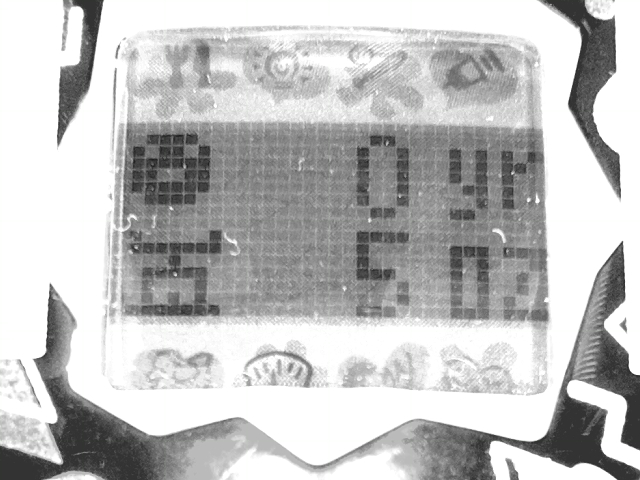
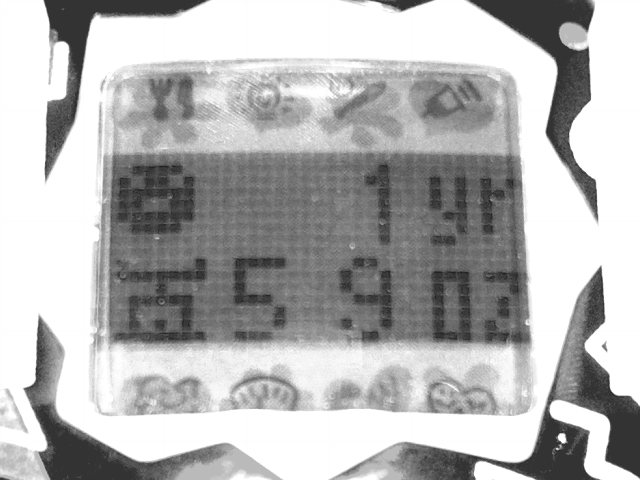
fixed threshold for discipline, new cropping since camera moved, some stuff to make the program auto run on startup

diff --git a/controller.py b/controller.py
@@ -26,7 +26,7 @@ class TamaCareState(object):
     self.machine.add_transition('discipline', 'undisciplined', 'idle')
 
 class TamaPhysState(object):
-  physStates = ['unknown', 'egg', 'baby', 'child', 'teen', 'adult', 
+  physStates = ['unknown', 'egg', 'asleep', 'baby', 'child', 'teen', 'adult', 
                       'adult_secret', 'dead']
   teenType = 'none'
   adultType = 'none'
@@ -42,7 +42,7 @@ class TamaPhysState(object):
       self.machine.add_transition('die', '*', 'dead')
 
 class TamaController(object):
-  def __init__(self, tamaCam, tamaVision, tamaButtons, tamaLight, careInterval, lock):
+  def __init__(self, tamaCam, tamaVision, tamaButtons, tamaLight, careInterval, lock, saveLight):
     self.tamaCam = tamaCam
     self.tamaVision = tamaVision
     self.tamaButtons = tamaButtons
@@ -57,13 +57,16 @@ class TamaController(object):
     self.prevAutoMode = False
     self.SnackKillCounter = 0
     self.lock = lock
+    self.turnOffLightWhenNotNeeded = saveLight
+    self.lightsTurnedOff = False
 
   def getFrame(self, fn):
     self.tamaLight.turnOn()
     sleep(0.5)
     with self.lock:
       self.tamaCam.getFrameToFile(fn)
-    self.tamaLight.turnOff()
+    if self.turnOffLightWhenNotNeeded:
+      self.tamaLight.turnOff()
     sleep(0.3)
   
   def updateTamaStatFrames(self):
@@ -108,13 +111,14 @@ class TamaController(object):
       self.careState.to_unhappy()
       return
 
-    logger.log(logging.WARNING,('Tamagotchi is OK, does it call for discipline?.'))
     # only check discipline after all other care request have been handled
-    if self.tamaVision.findPattern(frameFileName, 'needs_discipline.png', positiveThresholds = 0.85):
+    if self.tamaVision.findPattern(frameFileName, 'needs_discipline.png', positiveThresholds = 0.7): # normal is 0.65, when detected is 0.75 (@0.02 thres offset)
       logger.log(logging.WARNING,('Yes!'))
       self.careState.to_undisciplined()
+      logger.log(logging.WARNING,('Tamagotchi needs discipline!'))
       return
-    logger.log(logging.WARNING,('No.'))
+    logger.log(logging.WARNING,('Tamagotchi does not need discipline.'))
+    
     logger.log(logging.WARNING,'Tamagotchi seems to not need care right now.')
     self.careState.to_idle()
     return
@@ -124,8 +128,14 @@ class TamaController(object):
     if self.tamaVision.findPattern(frameFileName, 'angel.png'):
         self.physState.to_dead()  
         return    
-    #self.physState.to_child()
-    #return
+    
+    if self.lightsTurnedOff:
+      if self.tamaVision.findPattern(frameFileName, ['sleep_screen1.png', 'sleep_screen2.png']):
+        self.physState.to_asleep()  
+        return
+      else:
+        self.lightsTurnedOff = False
+
     if self.physState.state in ['unknown', 'dead']:
       if self.tamaVision.findPattern(frameFileName, 'egg_1.png'):
         self.physState.to_egg()
@@ -159,7 +169,7 @@ class TamaController(object):
         self.physState.to_teen()
         self.physState.teenType = 'teen1'
         return
-      if self.tamaVision.findPattern(frameFileName, 'teen2_1.png'):
+      if self.tamaVision.findPattern(frameFileName, 'teen2_1.png', positiveThresholds = 0.50):
         self.physState.to_teen()
         self.physState.teenType = 'teen2'
         return
@@ -318,6 +328,7 @@ class TamaController(object):
       self.tamaButtons.pressM()
       sleep(4)
       self.tamaButtons.pressR()
+      self.lightsTurnedOff = True
 
     if self.careState.state == 'undisciplined':
       logger.log(logging.WARNING,'Disciplining the Tamagotchi.')
@@ -368,15 +379,20 @@ class TamaController(object):
           if self.physState.state == 'dead':
             logger.log(logging.WARNING,'Not checking care needs, because tama is dead')
             return
+              
+          if self.lightsTurnedOff:
+            logger.log(logging.WARNING,'Not checking care needs, tama is asleep...')
+            return
 
           self.detectCareState(fn)
           logger.log(logging.WARNING,'Care state: ' + self.careState.state)
 
           self.tamaLight.turnOn()
           self.handleState()
-          self.tamaLight.turnOff()
+          if self.turnOffLightWhenNotNeeded:
+            self.tamaLight.turnOff()
         else:
-          sleep(30)
+          sleep(1)
       else: #kill the tamagotchi by feeding it snacks over and over
         if self.prevLoveMode == True or self.prevAutoMode == False:
           logger.log(logging.WARNING,'Tamagotchi murder mode activated. You monster.')

diff --git a/gui.py b/gui.py
@@ -3,11 +3,10 @@ from tkinter import *
 from tkinter.scrolledtext import ScrolledText
 from PIL import ImageTk,Image
 from time import sleep
-import fasteners
 import QueueHandler
 import logging
 import queue
-
+import os
 
 
 logger = logging.getLogger('Tamagotchi')
@@ -19,19 +18,19 @@ def checkSetDisplay():
         os.environ.__setitem__('DISPLAY', ':0.0')
 
 class TamaGui():
-    def __init__(self, buttonControllerInput, lock):
+    def __init__(self, buttonControllerInput, lightController, lock):
         checkSetDisplay()
         self.buttonController = buttonControllerInput
         self.gui = Tk()
         self.gui.attributes('-fullscreen',True)
         self.gui.title("Tamagotchi-Incubator")
-        self.buildGUI()
         self.lock = lock
-
+        self.lightController = lightController
         self.DefClr = self.gui.cget("bg")
-
         self.autoMode = False
         self.loveMode = True
+
+        self.buildGUI()
 
     def setAutoMode(self):
         self.autoMode = True
@@ -44,7 +43,13 @@ class TamaGui():
 
     def setMurderMode(self):
         self.loveMode = False
+
+    def shutdown(self):
+        os.system('sudo shutdown -r now')
         
+    def stop_app(self):
+        exit()
+
     def buildGUI(self):
         fontLog= ('Helvetica 20')
         fontSmall= ('Helvetica 26')
@@ -54,6 +59,18 @@ class TamaGui():
 
         mButton = Button(self.gui, text ="Push M", command = self.buttonController.pressM, font = fontSmall)
         mButton.place(x=140,y=370)
+
+        lightOnButton = Button(self.gui, text ="Light On", command = self.lightController.turnOn, font = fontSmall)
+        lightOnButton.place(x=610,y=370)
+
+        lightOffButton = Button(self.gui, text ="Light Off", command = self.lightController.turnOff, font = fontSmall)
+        lightOffButton.place(x=610,y=420)
+
+        shutdownButton = Button(self.gui, text ="Shutdown", command = self.shutdown, font = fontSmall)
+        shutdownButton.place(x=610,y=470)
+
+        restartButton = Button(self.gui, text ="Stop app", command = self.stop_app, font = fontSmall)
+        restartButton.place(x=610,y=520)
 
         rButton = Button(self.gui, text ="Push R", command = self.buttonController.pressR, font = fontSmall)
         rButton.place(x=280,y=370)

diff --git a/vision.py b/vision.py
@@ -31,6 +31,8 @@ class TamaVision(object):
             matplotlib.use('TkAgg')
         else:
             matplotlib.use('agg')
+
+        self.excludeImages = ['adult', 'teen', 'child', 'baby', 'egg', 'angel', 'asleep', 'sleep_screen']
         
     
     # 12.6x scale value found through calibration, first step measure pixels, then trial and error test for best match
@@ -52,12 +54,15 @@ class TamaVision(object):
                 return missingHearts
         return missingHearts
     
+    def cropImage(self, image):
+        return image[120:370, 95:570]
+    
     def mealSelected(self, fn):
         input = ski.io.imread(fn, as_gray=True)
-        cropped = input[110:341, 95:570] # crop screen
+        cropped = self.cropImage(input) # crop screen
         thresh = threshold_yen(cropped)
         thresd = cropped > (thresh+self.thresOffset)
-        selected = thresd[0:120, 0:100] # crop to arrow position for snack selection
+        selected = thresd[0:130, 0:100] # crop to arrow position for snack selection
         ''' # if you run below, you will be too late to select the right option...
         
         fig = plt.figure(figsize=(5, 3))
@@ -94,7 +99,7 @@ class TamaVision(object):
 
             if patName not in ['needs_discipline.png']:
                 # crop image
-                image = image[110:341, 95:570]
+                image = self.cropImage(image)
 
                 # threshold image using yen algorithm, this is best (determined through try_all_threshold function from skimage)
                 thresh = threshold_yen(image)
@@ -196,6 +201,8 @@ class TamaVision(object):
                 with self.lock:
                     shutil.copy(fn, 'visionLog/Found/' + date_time + patName) 
                 plt.close()  
+                if not any(ele in patName for ele in self.excludeImages):
+                    shutil.copy(fn, 'visionLog/Interesting/' + date_time + patName) 
                 return True
             else:
                 with self.lock:

diff --git a/main.py b/main.py
@@ -10,6 +10,9 @@ import light
 from time import sleep
 import threading
 
+abspath = os.path.abspath(__file__) # this all makes sure you can run this stuff from command line from any place
+dname = os.path.dirname(abspath)
+os.chdir(dname)
 
 # This line is essential, do not remove. This makes sure you can display to the 3.5 inch display
 os.environ.__setitem__('DISPLAY', ':0.0') 
@@ -24,18 +27,18 @@ logger = logging.getLogger('Tamagotchi')
 
 lock = threading.Lock()
 
-buttonL = servo_buttons.TamaButton("left", 0, 170, 75)
+buttonL = servo_buttons.TamaButton("left", 0, 170, 75) #values found through calibration
 buttonM = servo_buttons.TamaButton("middle", 1, 170, 75)
 buttonR = servo_buttons.TamaButton("right", 2, 0, 90)
 
 tamaButtons = servo_buttons.ButtonController(buttonL, buttonM, buttonR)
-tamaGui = gui.TamaGui(tamaButtons, lock)
+tamaLight = light.TamaLight(14)
+tamaGui = gui.TamaGui(tamaButtons, tamaLight, lock)
 tamaCam = camera.TamaCam()
-# Threshold offset: higher means more black pixels. Normally +0.01 is ok
+# Threshold offset: higher means more black pixels. Normally +0.02 is ok
 # positiveThreshold: 0.40 is good, little valse positives. value above this means we've found the pattern
 tamaVision = vision.TamaVision(0.40, 0.02, False, lock)
-tamaLight = light.TamaLight(14)
-tamaController = controller.TamaController(tamaCam, tamaVision, tamaButtons, tamaLight, 30, lock) # care interval is the magic number
+tamaController = controller.TamaController(tamaCam, tamaVision, tamaButtons, tamaLight, 600, lock, False) # care interval is the magic number
 
 logger.log(logging.CRITICAL, 'Robotic Tamagotchi Caretaker started!')
 def threadedMainLogic():
@@ -44,7 +47,7 @@ def threadedMainLogic():
 
 tamaCam.preview()  
 while(True):
-    t = threading.Thread(target=threadedMainLogic)
+    t = threading.Thread(target=threadedMainLogic, daemon=True)
     t.start()
     tamaGui.mainloop()
     

diff --git a/camera.py b/camera.py
@@ -18,7 +18,7 @@ class TamaCam():
         self.setup()
 
     def setup(self):
-        self.camera.zoom = (0.36, 0.16, 0.3, 0.3)
+        self.camera.zoom = (0.36, 0.19, 0.3, 0.3) #values found through calibration, in our case width and height size MUST be 0.3, or recalibrate pixel sizes too for vision
         self.camera.resolution = 'vga'
         #self.camera.framerate = 2
         self.camera.framerate = 5
@@ -39,7 +39,7 @@ class TamaCam():
         self.camera.capture(filename)
 
     def calibrate(self):
-        self.camera.zoom = (0.01, 0.01, 0.99, 0.99)
+        self.camera.zoom = (0.01, 0.01, 0.99, 0.99) 
         self.getFrameToFile('fullFrame.jpg')
         self.getFrameToFile('fullFrame.jpg')
         self.getFrameToFile('fullFrame.jpg')

diff --git a/light.py b/light.py
@@ -20,5 +20,4 @@ class TamaLight(object):
         GPIO.output(self.lightPin, GPIO.HIGH)
 
     def turnOff(self):
-        pass
-        #GPIO.output(self.lightPin, GPIO.LOW)
+        GPIO.output(self.lightPin, GPIO.LOW)

diff --git a/cameraTest.py b/cameraTest.py
@@ -1,0 +1,6 @@
+import camera
+
+cam = camera.TamaCam()
+
+cam.camera.start_preview()
+cam.camera.zoom = (0.36, 0.19, 0.3, 0.3)
